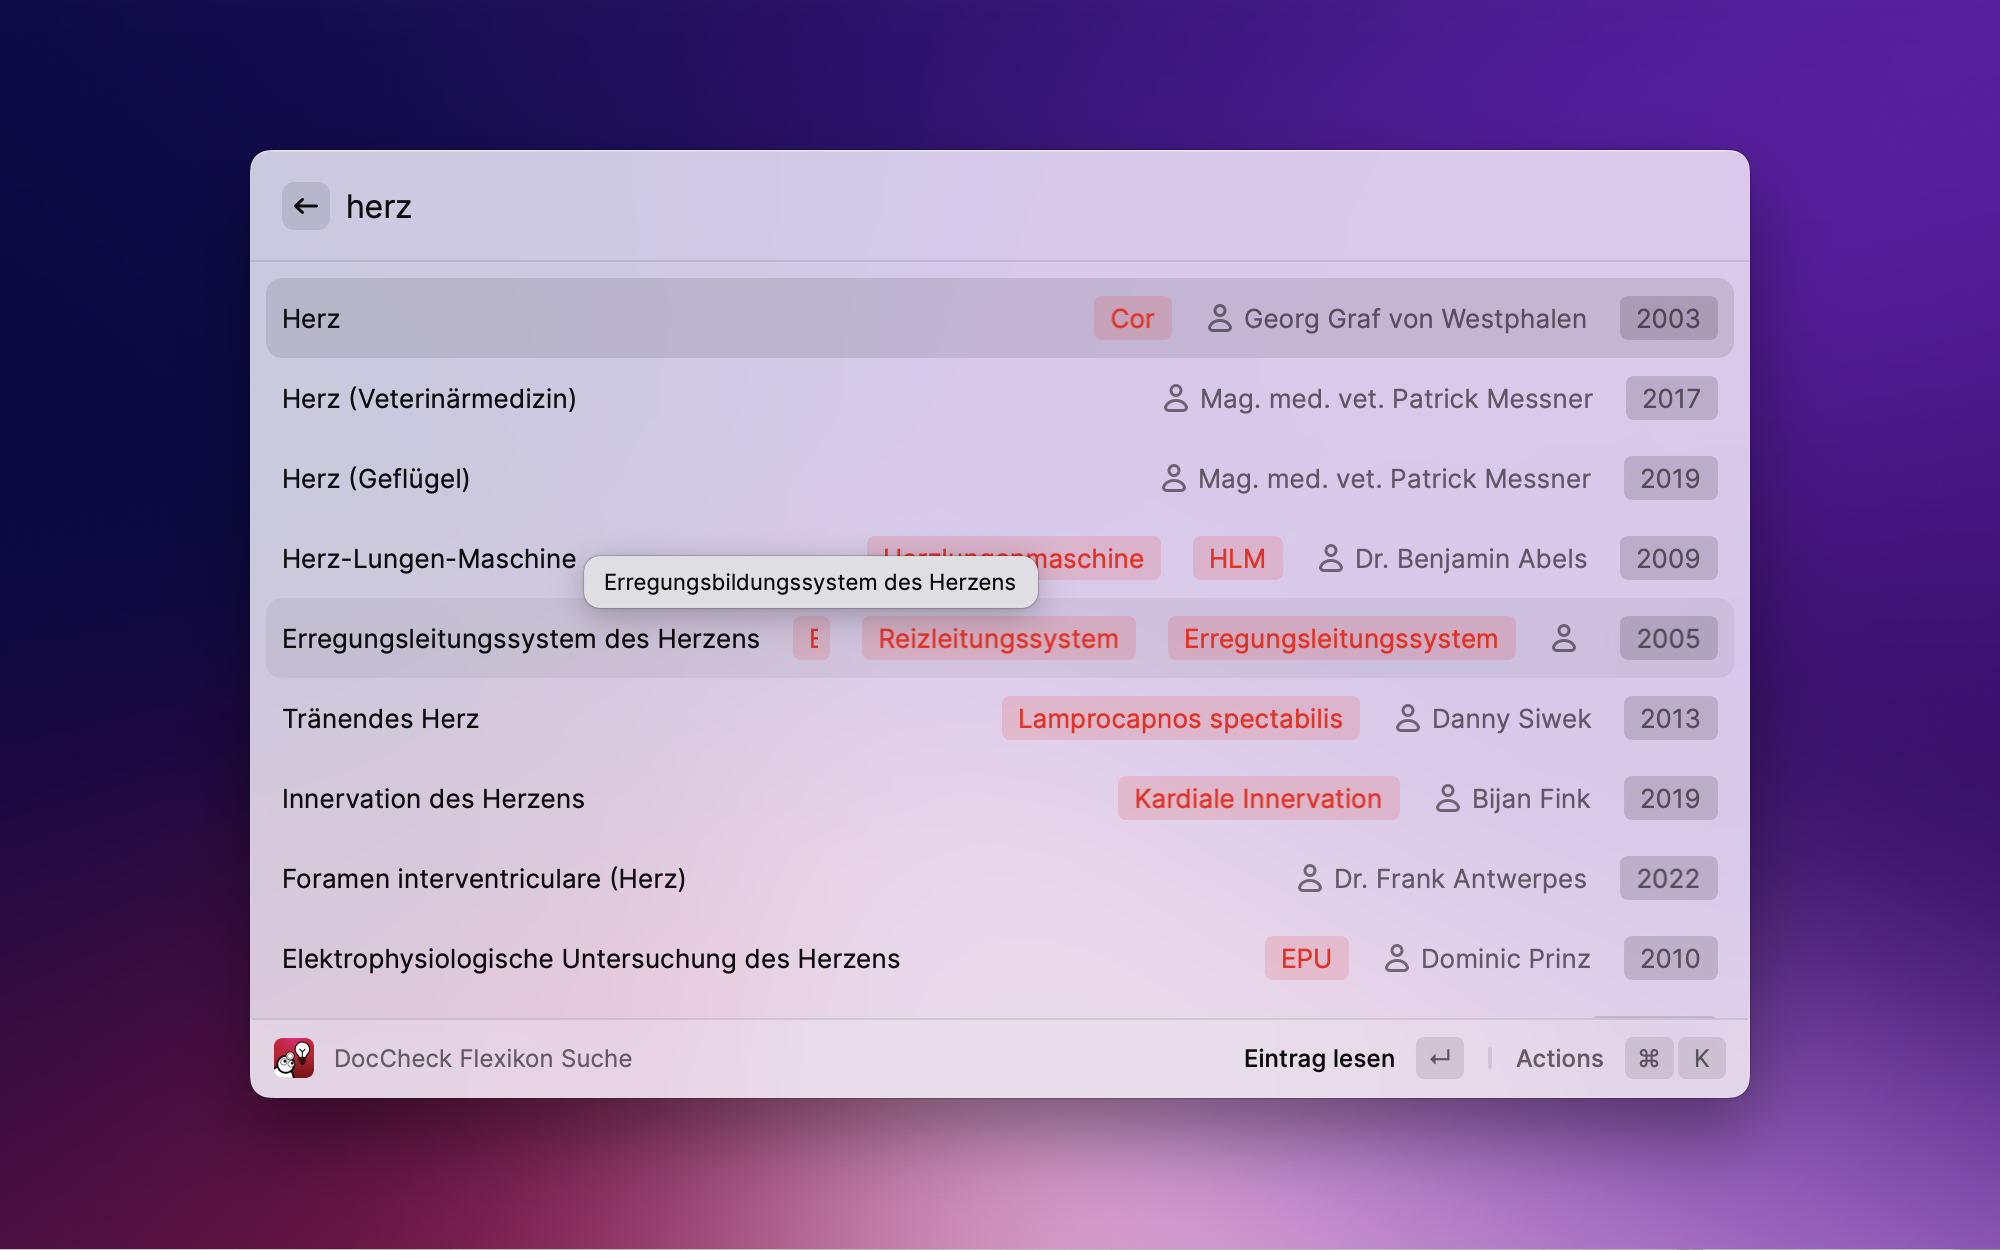
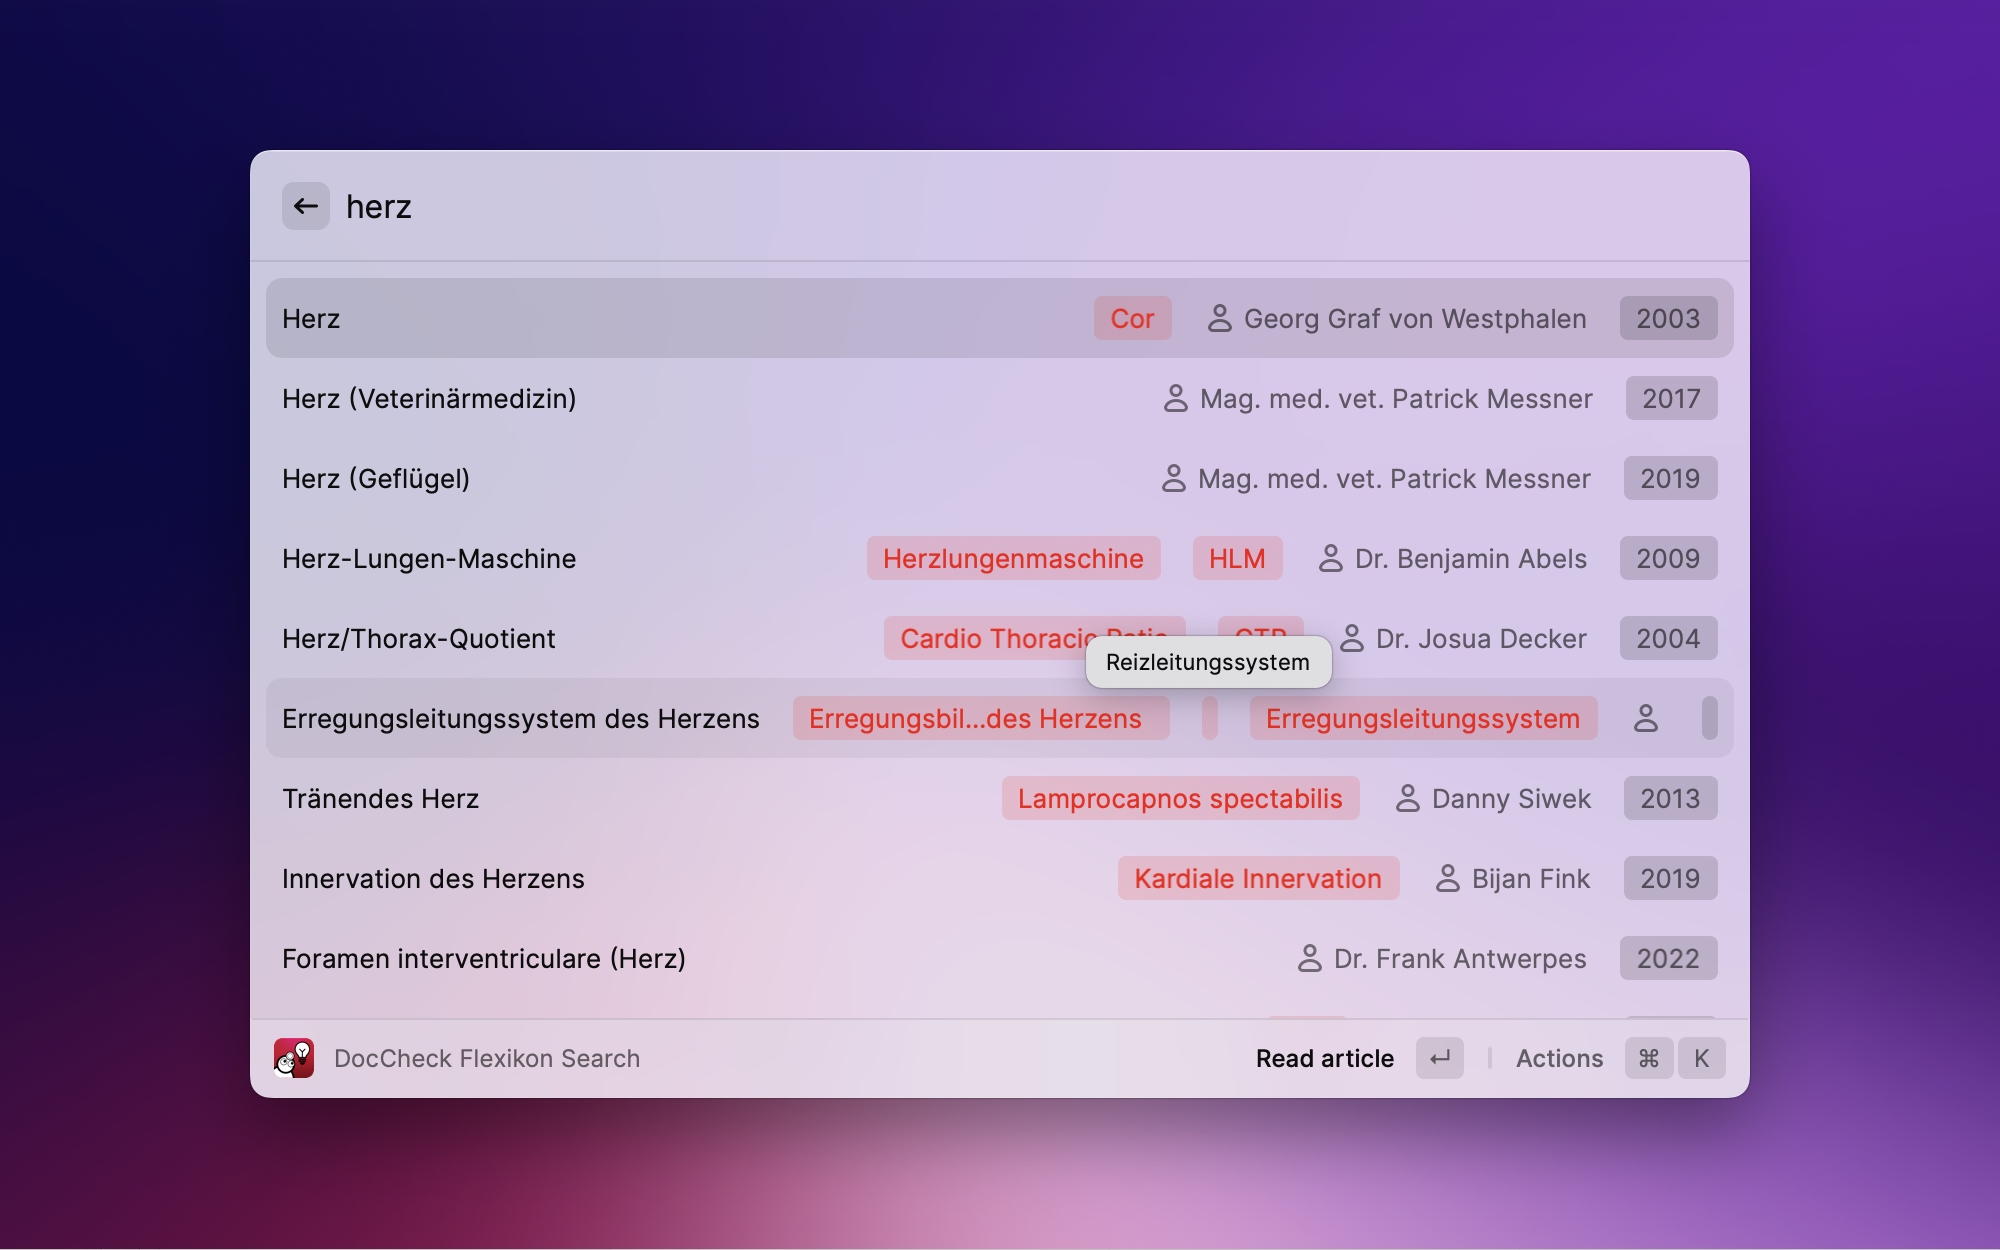
Version 1.3

diff --git a/src/doccheck-flexikon.tsx b/src/doccheck-flexikon.tsx
@@ -133,7 +133,7 @@ export default function Command(props: LaunchProps) {
         isLoading={loading}
         searchBarPlaceholder="Search..."
       >
-        <List.Section title={query ? "" : "Top Artikel"}>
+        <List.Section title={"Top Articles"}>
           {entries.map((entry) => {
             if (entry.description) {
               return (
